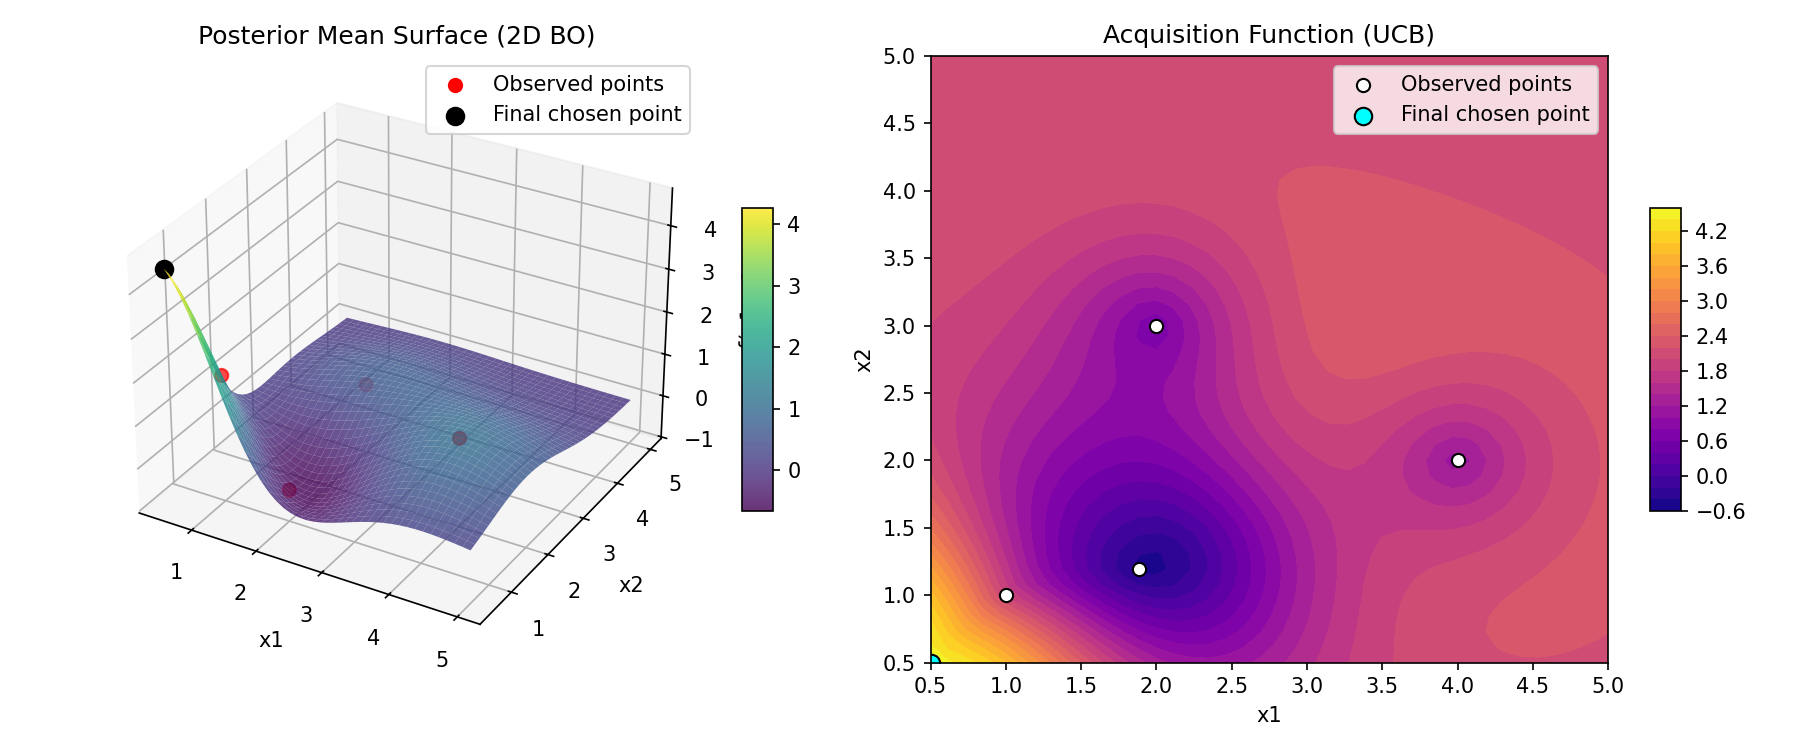
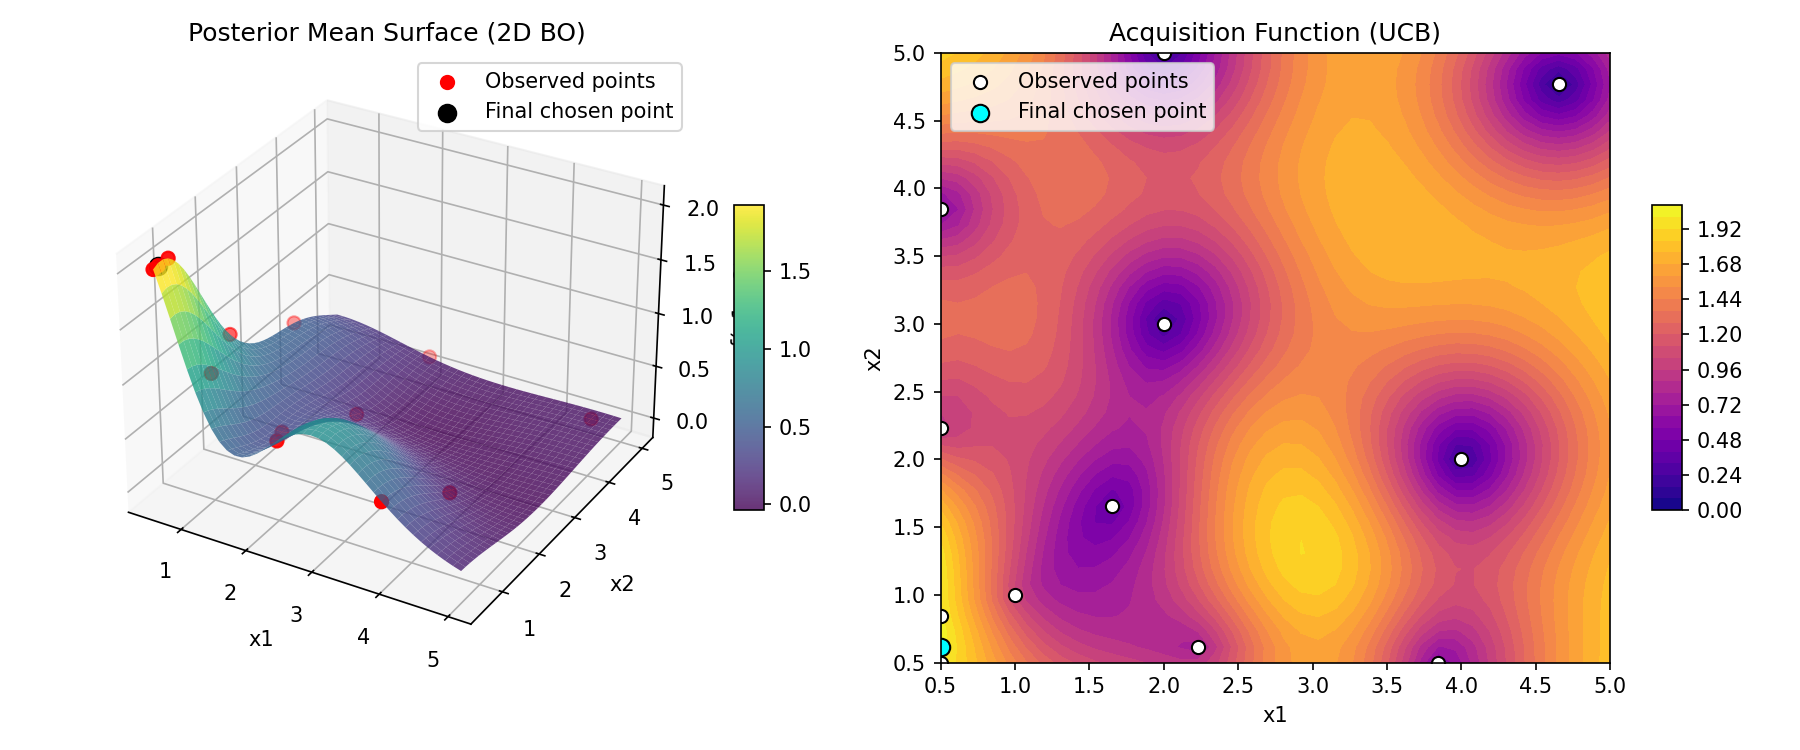
Marcus conversation over and new goals established

diff --git a/multidimensionalbo.py b/multidimensionalbo.py
@@ -200,7 +200,7 @@ def combined_kernel_product(xin1,
 
 # Marcus contour search function replica using BO
 
-def bo_2d_contour(chosen_func, setup_min, setup_max, hold_min, hold_max, c2q_threshold=math.inf, n_samples=40):
+def bo_2d_contour(probe_func, setup_min, setup_max, hold_min, hold_max, c2q_threshold=math.inf, n_samples=40):
 
 
     # Verify the max and min points of the setup and hold
@@ -213,8 +213,27 @@ def bo_2d_contour(chosen_func, setup_min, setup_max, hold_min, hold_max, c2q_thr
     setup_range = np.linspace(setup_min, setup_max, n_samples)
     hold_range = np.linspace(hold_min, hold_max, n_samples)
 
-    _cache = {}
+    # We might not need a cache
+    # _cache = {}
+
+    # def _run_cached(si, hi, s_s, h_s):
+    #     key = (si, hi)
+    #     for key in _cache:
+    #         return _cache[key], False
+    #     c2q = probe_func(s_s, h_s)
+    #     _cache[key] = c2q
+    #     return c2q, True
+
+    # Define Sweeps across the c2q grid (Hold and Setup)
+
+    # --- Sweep A: Hold outer, setup inner (left to right, breaking at first success) ---
+        c2q_a = np.full((n_hold, n_setup), np.nan)
+        latched_a = np.zeros((n_hold, n_setup), dtype=bool)
+        simulated_a = np.zeros((n_hold, n_setup), dtype=bool)
 
 
+
+
+        return None
 
     return None

diff --git a/playground.py b/playground.py
@@ -229,7 +229,7 @@ def two_d_objective(x_vec, eps=1e-6):
     prod = x1 * x2
     R = (x1**2 + x2**2)
     prod_safe = prod if abs(prod) > eps else eps
-    return 1.0 / prod_safe + np.sin(R) #* np.cos(x2)
+    return min(2, 1.0 / prod_safe) # + np.sin(R)) #* np.cos(x2) Use a white noise gaussian model, check how BO works with that.
 
 def visualize_2d_bo(X1, X2, MU, ACQ, train_x, train_y, x_next):
     """
